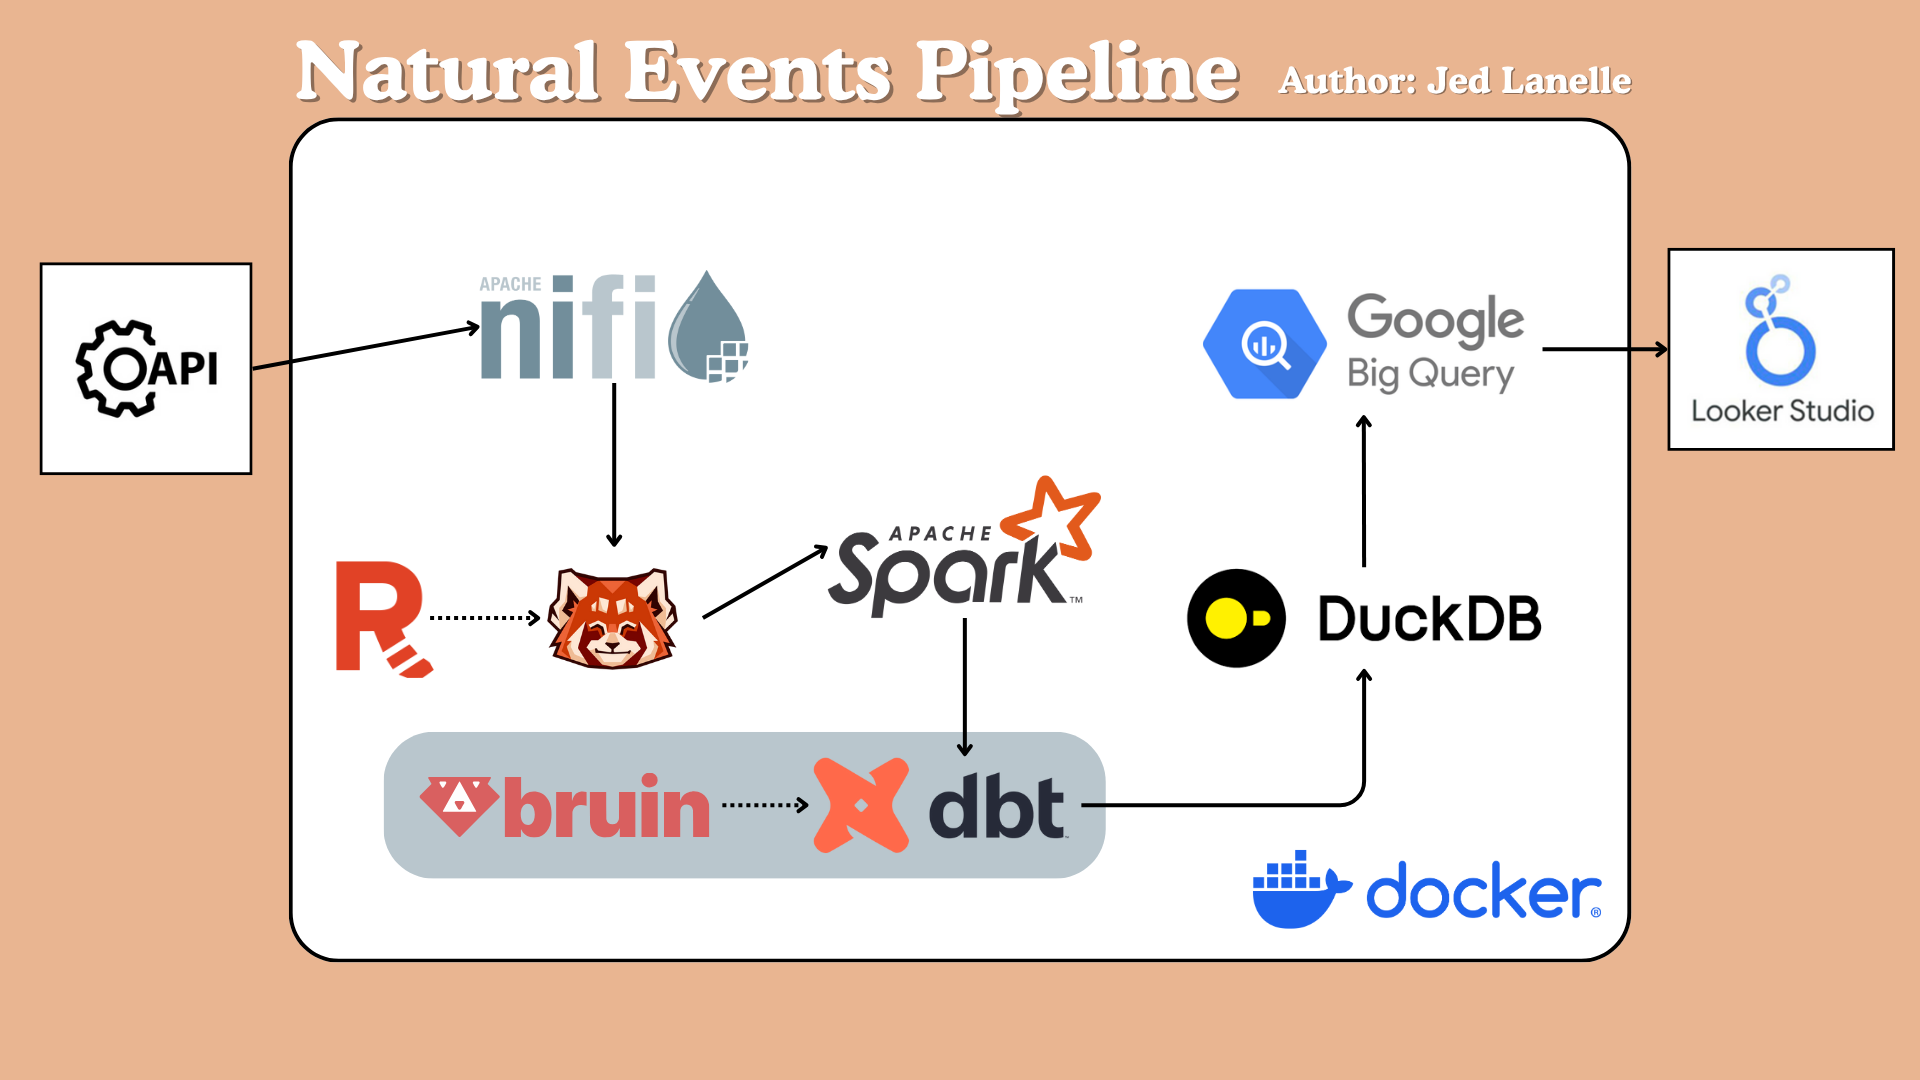
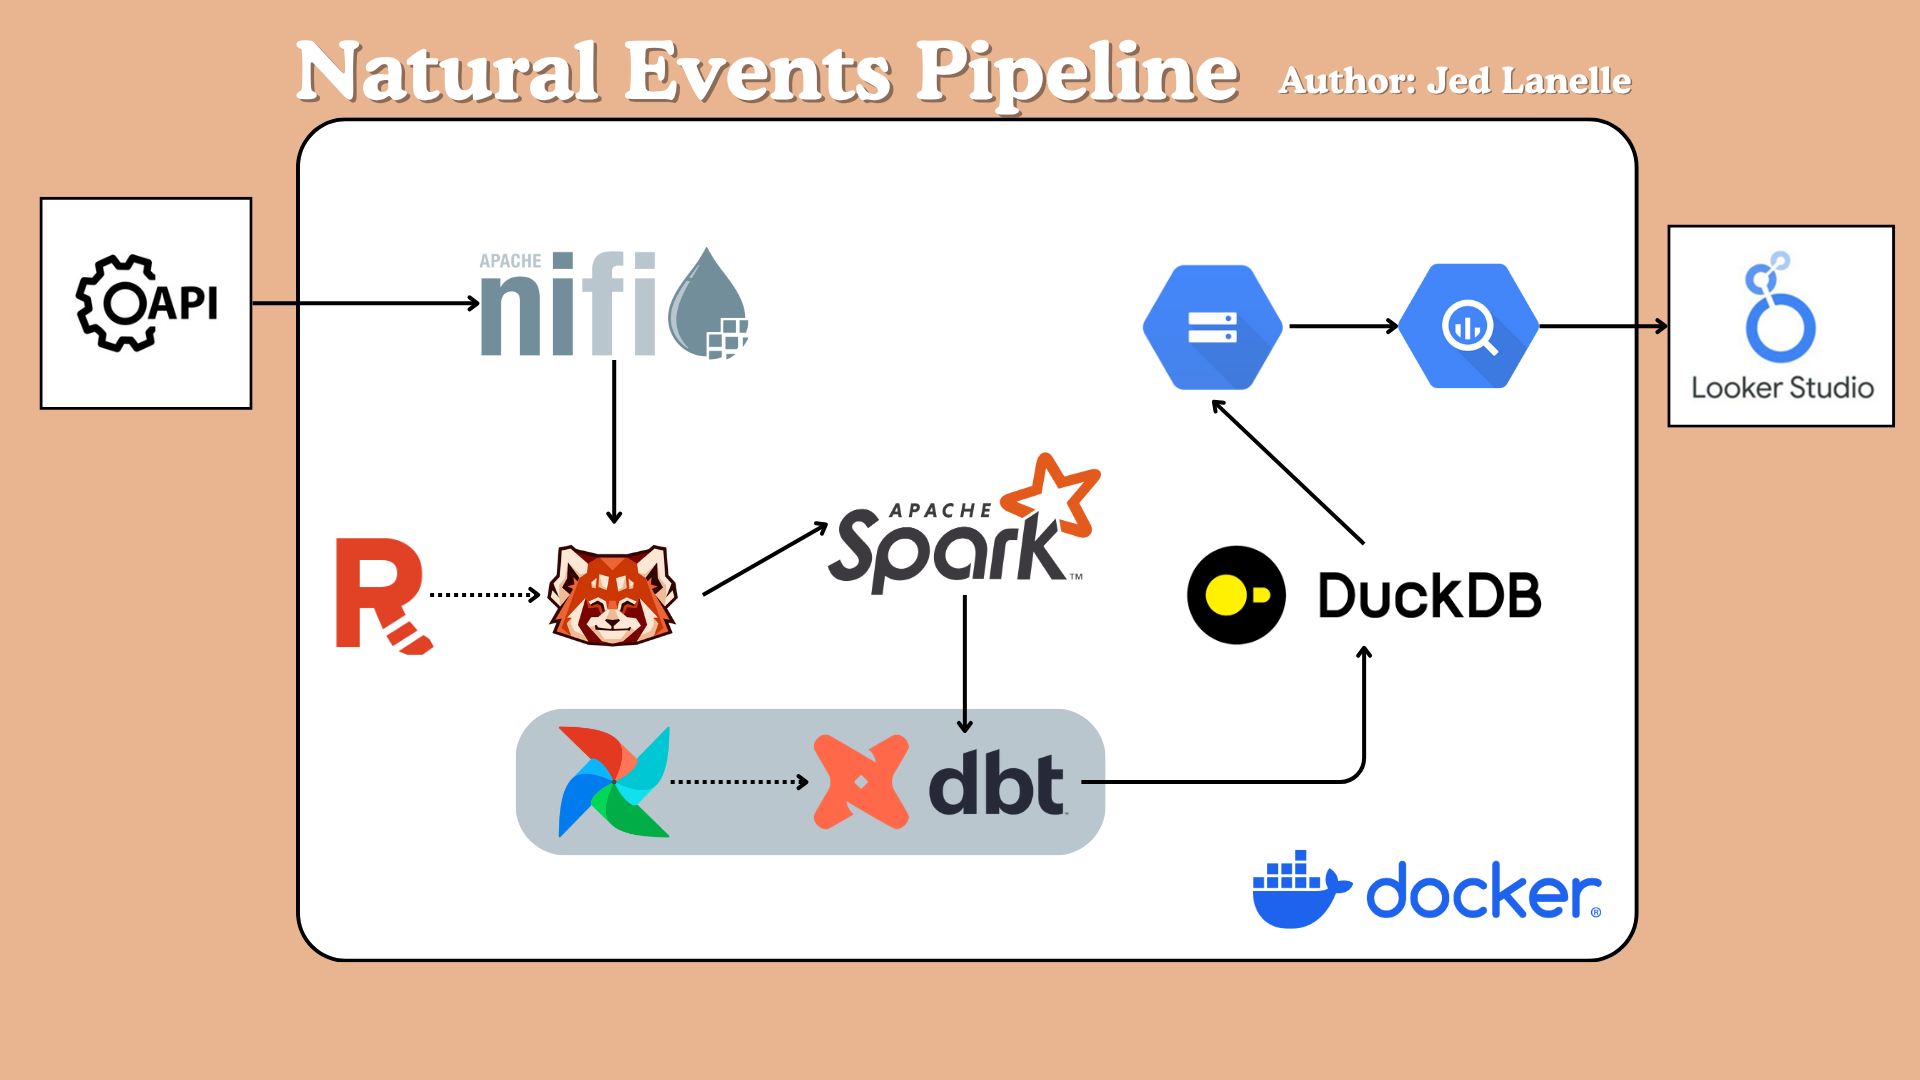
build: Replace the Orchestration tool - Replaced Bruin with Airflow - Airflow setup is minimal to reduce load on the performance - Service added are init, scheduler, and webserver - Replace the bruin-dbt service with a standalone dbt service

diff --git a/scripts/export_to_bq.py b/scripts/export_to_bq.py
@@ -1,0 +1,148 @@
+from __future__ import annotations
+import os
+import time
+import pathlib
+import logging
+import tempfile
+from typing import List, Dict
+from concurrent.futures import ThreadPoolExecutor, as_completed
+
+import duckdb
+from google.cloud import bigquery, storage
+from google.api_core.exceptions import NotFound, Conflict, GoogleAPIError
+
+DUCKDB_PATH = os.getenv("DUCKDB_PATH", "/usr/app/data/natural_events.duckdb")
+GOOGLE_APPLICATION_CREDENTIALS = os.getenv("GOOGLE_APPLICATION_CREDENTIALS", "/workspace/gcp-credentials.json")
+os.environ["GOOGLE_APPLICATION_CREDENTIALS"] = GOOGLE_APPLICATION_CREDENTIALS
+
+GCS_BUCKET = os.getenv("GCS_BUCKET", "natural-events-staging")
+BQ_PROJECT = os.getenv("BQ_PROJECT")
+BQ_DATASET = os.getenv("BQ_DATASET", "natural_events")
+TABLES = ["fire_summary", "earthquake_summary", "combined_events"]
+
+LOCAL_EXPORT_DIR = os.getenv("LOCAL_EXPORT_DIR", "/usr/app/spark-data/exports")
+CONCURRENCY = int(os.getenv("EXPORT_CONCURRENCY", "3"))
+MAX_RETRIES = 5
+RETRY_DELAY = 2.0
+
+logging.basicConfig(
+    level=logging.INFO,
+    format="%(asctime)s [%(levelname)s] %(message)s",
+)
+logger = logging.getLogger("export_to_bigquery")
+
+def retry(func):
+    def wrapper(*args, **kwargs):
+        delay = RETRY_DELAY
+        for attempt in range(1, MAX_RETRIES + 1):
+            try:
+                return func(*args, **kwargs)
+            except (GoogleAPIError, Exception) as e:
+                if attempt == MAX_RETRIES:
+                    logger.exception("Max retries reached for %s", func.__name__)
+                    raise
+                logger.warning("Retry %d/%d after error: %s", attempt, MAX_RETRIES, e)
+                time.sleep(delay)
+                delay *= 2
+    return wrapper
+
+# ---------------------------
+# Clients
+# ---------------------------
+def init_clients():
+    bq = bigquery.Client(project=BQ_PROJECT) if BQ_PROJECT else bigquery.Client()
+    gcs = storage.Client()
+    return bq, gcs
+
+def ensure_bq_dataset(client: bigquery.Client, dataset_id: str):
+    ds_ref = bigquery.DatasetReference(client.project, dataset_id)
+    try:
+        client.get_dataset(ds_ref)
+        logger.info("Dataset %s.%s exists", client.project, dataset_id)
+    except NotFound:
+        ds = bigquery.Dataset(ds_ref)
+        ds.location = "US"
+        try:
+            client.create_dataset(ds)
+            logger.info("Created dataset %s.%s", client.project, dataset_id)
+        except Conflict:
+            pass
+    return ds_ref
+
+@retry
+def duckdb_to_parquet(conn: duckdb.DuckDBPyConnection, table: str, out_path: str):
+    sql = f"COPY (SELECT * FROM {table}) TO '{out_path}' (FORMAT PARQUET);"
+    conn.execute(sql)
+    logger.info("Exported %s → %s", table, out_path)
+    return out_path
+
+@retry
+def upload_to_gcs(gcs_client: storage.Client, bucket_name: str, local_file: str, dest_blob: str):
+    bucket = gcs_client.bucket(bucket_name)
+    blob = bucket.blob(dest_blob)
+    blob.chunk_size = 5 * 1024 * 1024  # 5MB
+    blob.upload_from_filename(local_file)
+    logger.info("Uploaded %s to gs://%s/%s", local_file, bucket_name, dest_blob)
+    return f"gs://{bucket_name}/{dest_blob}"
+
+@retry
+def load_parquet_to_bq(bq_client: bigquery.Client, gs_uri: str, dataset: str, table: str):
+    table_id = f"{bq_client.project}.{dataset}.{table}"
+    job_config = bigquery.LoadJobConfig(
+        source_format=bigquery.SourceFormat.PARQUET,
+        write_disposition="WRITE_TRUNCATE",
+        autodetect=True,
+    )
+    job = bq_client.load_table_from_uri(gs_uri, table_id, job_config=job_config)
+    job.result()
+    dest = bq_client.get_table(table_id)
+    logger.info("Loaded %d rows into %s", dest.num_rows, table_id)
+    return dest.num_rows
+
+@retry
+def delete_from_gcs(gcs_client: storage.Client, bucket_name: str, blob_path: str):
+    blob = gcs_client.bucket(bucket_name).blob(blob_path)
+    blob.delete()
+    logger.info("Deleted gs://%s/%s", bucket_name, blob_path)
+
+def export_table(table: str, bq_client, gcs_client, duckdb_path: str, dataset: str) -> Dict[str, str]:
+    start = time.time()
+    status = {"table": table, "status": "FAILED", "rows": 0}
+    tmp_dir = pathlib.Path(LOCAL_EXPORT_DIR)
+    tmp_dir.mkdir(parents=True, exist_ok=True)
+    parquet_path = tmp_dir / f"{table}_{int(start)}.parquet"
+    blob_path = f"duckdb_exports/{parquet_path.name}"
+
+    conn = duckdb.connect(duckdb_path)
+    try:
+        duckdb_to_parquet(conn, table, str(parquet_path))
+        gs_uri = upload_to_gcs(gcs_client, GCS_BUCKET, str(parquet_path), blob_path)
+        rows = load_parquet_to_bq(bq_client, gs_uri, dataset, table)
+        delete_from_gcs(gcs_client, GCS_BUCKET, blob_path)
+        status.update({"status": "SUCCESS", "rows": rows})
+    except Exception as e:
+        logger.exception("Export failed for %s: %s", table, e)
+    finally:
+        conn.close()
+        if parquet_path.exists():
+            parquet_path.unlink(missing_ok=True)
+    elapsed = round(time.time() - start, 2)
+    logger.info("%s export finished: %s in %.2fs", table, status["status"], elapsed)
+    return status
+
+def main():
+    bq_client, gcs_client = init_clients()
+    ensure_bq_dataset(bq_client, BQ_DATASET)
+
+    logger.info("Starting export from %s to BigQuery dataset %s", DUCKDB_PATH, BQ_DATASET)
+    with ThreadPoolExecutor(max_workers=CONCURRENCY) as pool:
+        futures = [pool.submit(export_table, t, bq_client, gcs_client, DUCKDB_PATH, BQ_DATASET) for t in TABLES]
+        results = [f.result() for f in as_completed(futures)]
+
+    logger.info("All exports complete:")
+    for r in results:
+        logger.info("  %s → %s (%d rows)", r["table"], r["status"], r["rows"])
+    logger.info("✓ DuckDB → GCS → BigQuery export finished successfully.")
+
+if __name__ == "__main__":
+    main()
